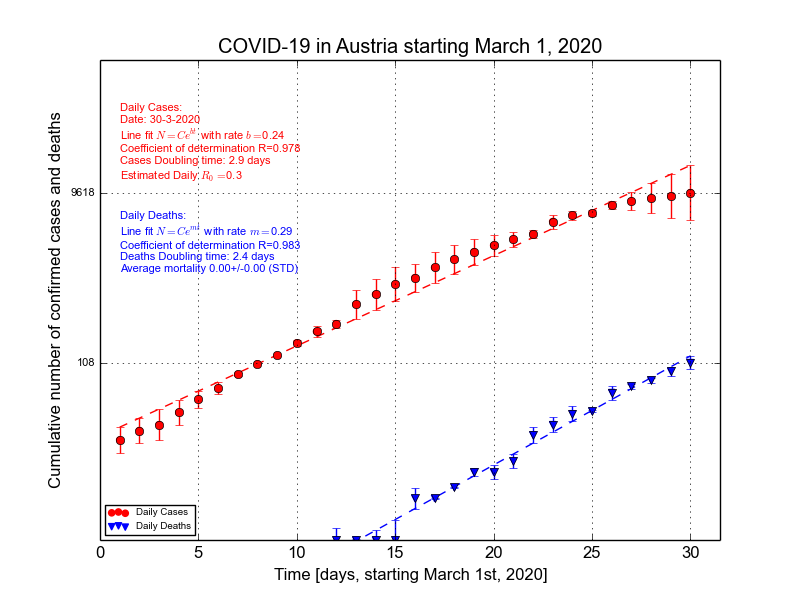
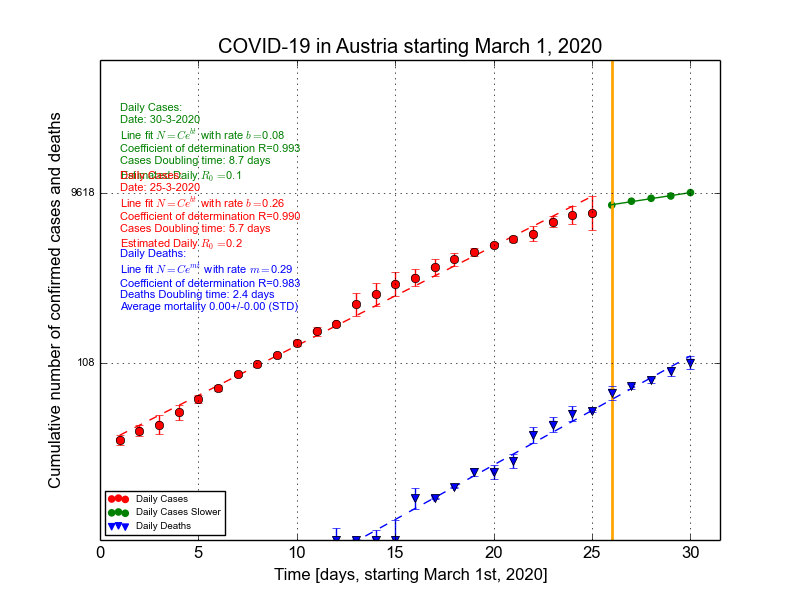
added full table and slowdown austria

diff --git a/cov_model/cov_lin_wrapper.py b/cov_model/cov_lin_wrapper.py
@@ -177,9 +177,13 @@ def plot_countries(datasets, month, country, download):
     Pdt.append(d_time)
     Pr0.append(R0)
     Pr.append(R)
+    double_cases = d_time
+    rate_cases = slope
 
     if d_time_s and R0_s:
         # compute MEAN doublind time for the combined fast&slow
+        rate_cases = slope_s
+        double_cases = d_time_s
         d_time = np.mean(np.append(d_time, d_time_s))
         R0 = np.mean(np.append(R0, R0_s))
 
@@ -199,7 +203,9 @@ def plot_countries(datasets, month, country, download):
     # statistics: deaths
     poly_x_d = R_d = y_err_d = slope_d = \
         d_time_d = R0_d = plot_text_d = None
+    rate_deaths = double_deaths = 'nan'
     if deaths:
+        d_time_d_s = None
         if country in SLOWDOWN_DEATHS:
             (x_deaths, y_deaths, x_deaths_slow, y_deaths_slow,
              poly_x_d_s, R_d_s, y_err_d_s, slope_d_s, d_time_d_s, R0_d_s,
@@ -220,7 +226,14 @@ def plot_countries(datasets, month, country, download):
             R_d, d_time_d,
             avg_mort, stdev_mort
         )
+        if not d_time_d_s:
+            rate_deaths = slope_d
+            double_deaths = d_time_d
+        else:
+            rate_deaths = slope_d_s
+            double_deaths = d_time_d_s
 
+    s1 = s2 = s3 = 0
     variable_pack = (
         x_cases, y_cases, x_slow, y_slow,
         cases, deaths, x_deaths, deaths,
@@ -231,8 +244,8 @@ def plot_countries(datasets, month, country, download):
     if country not in SLOWDOWN_DEATHS:
         make_evolution_plot(variable_pack, country, SLOWDOWN, SLOWDOWN_DEATHS)
         if deaths and len(deaths) > 3.0:
-            make_simulations_plot(variable_pack, country,
-                                  SLOWDOWN, SLOWDOWN_DEATHS)
+            s1, s2, s3 = make_simulations_plot(variable_pack, country,
+                                               SLOWDOWN, SLOWDOWN_DEATHS)
     else:
         slowdown_deaths = (x_deaths, y_deaths, x_deaths_slow, y_deaths_slow,
                            poly_x_d_s, R_d_s, y_err_d_s,
@@ -241,8 +254,16 @@ def plot_countries(datasets, month, country, download):
         make_evolution_plot(variable_pack, country, SLOWDOWN,
                             SLOWDOWN_DEATHS, slowdown_deaths)
         if deaths and len(deaths) > 3.0:
-            make_simulations_plot(variable_pack, country, SLOWDOWN,
-                                  SLOWDOWN_DEATHS, slowdown_deaths)
+            s1, s2, s3 = make_simulations_plot(variable_pack, country, SLOWDOWN,
+                                               SLOWDOWN_DEATHS, slowdown_deaths)
+    with open("country_data/all_countries_data.csv", "a") as file:
+
+        data_line = ",".join([country, str(rate_cases), str(rate_deaths),
+                              str(double_cases), str(double_deaths),
+                              str(s1), str(s2),
+                              str(s3)]) + '\n'
+        file.write(data_line)
+
 
     return Pdt, Pr0, [pr - 0.5 for pr in Pr], (np.array(cases), np.array(deaths))
 
@@ -307,7 +328,7 @@ def make_simulations_plot(variable_pack, country,
     sim_y_1_f = sim_y_1_real[-1] * np.exp(20. * slope_sim)
     sim_y_2_f = sim_y_2_real[-1] * np.exp(20. * slope_sim)
     sim_y_3_f = sim_y_3_real[-1] * np.exp(20. * slope_sim)
-    sim_y_4_f = sim_y_4_real[-1] * np.exp(20. * slope_sim)
+    sim_y_4_f = sim_y_4_real[-1] * np.exp(20. * slope_sim) 
 
     y_all_real = []
     y_all_real.extend(y_deaths_real)
@@ -454,7 +475,7 @@ def make_simulations_plot(variable_pack, country,
                                  "COVID-19_LIN_{}_DARK_SIM_UK.png".format(country)))
         plt.close()
 
-
+    return (sim_y_0_f, sim_y_1_f, sim_y_2_f)
 
 
 def _read_write_parameter(filename, parameter, stddev_parameter):

diff --git a/cov_model/statsanalysis/linear.py b/cov_model/statsanalysis/linear.py
@@ -9,7 +9,8 @@ import numpy as np
 def get_slowdown(month):
     """Set the correct slowdowns depending on month."""
     if month == 3:
-        SLOWDOWN = {"Belgium": 13,
+        SLOWDOWN = {"Austria": 26,
+                    "Belgium": 13,
                     "Bulgaria": 22,
                     "Denmark": 13,
                     "Finland": 14,
